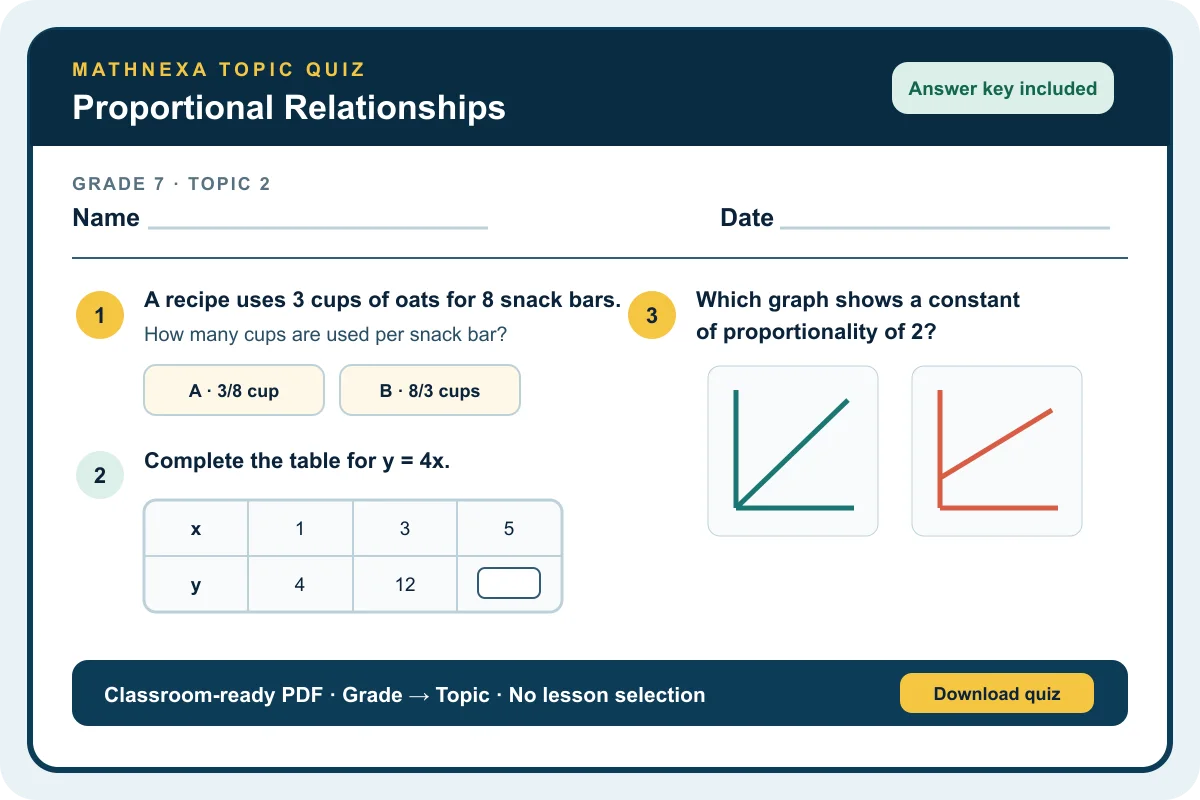
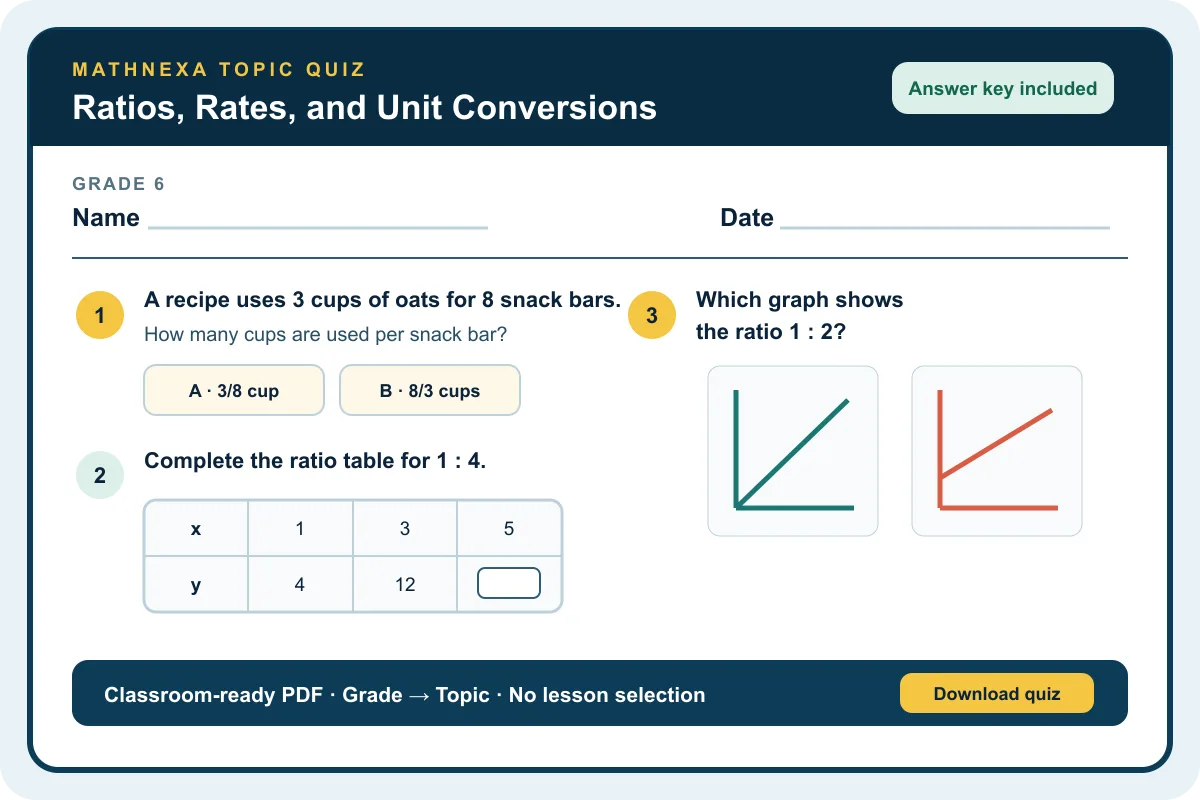
fix(home): draw the quiz preview as a real Grade 6 quiz
The homepage's quiz illustration said "Grade 7 · Topic 2 · Proportional
Relationships", but MathNexa publishes Grade 6 quizzes only. It now shows
the live Grade 6 topic "Ratios, Rates, and Unit Conversions", without a
topic number, and two Grade 6 ratio questions in place of the table for
y = 4x and the constant-of-proportionality graph. The layout, the drawn
table and graphs, and "Answer key included" (true of every live quiz)
are unchanged. The WebP and AVIF are re-rendered from the source SVG at
1200x800 (42 KB and 23 KB, about as before), and the alt text says
Grade 6.

diff --git a/e2e/phase9/teacher-first-access-flow.spec.ts b/e2e/phase9/teacher-first-access-flow.spec.ts
@@ -132,7 +132,7 @@ test("teacher-first homepage uses approved copy, SEO, modules, and public naviga
   await expect(page.getByRole("img", { name: /Math Vocabulary Hunt game artwork/i })).toBeVisible();
   await expect(page.getByRole("img", { name: /Online Math Prep workspace/i })).toBeVisible();
   await expect(page.getByRole("img", { name: /homework PDF with fruit diagrams/i })).toBeVisible();
-  await expect(page.getByRole("img", { name: /Grade 7 topic quiz/i })).toBeVisible();
+  await expect(page.getByRole("img", { name: /Grade 6 topic quiz/i })).toBeVisible();
   await expect(page.locator("a[data-product]")).toHaveCount(4);
   await expect(page.locator("a[data-product]").first()).toHaveAttribute("href", "/map-prep");
   await expect(page.getByRole("figure", { name: /^Example: a Grade 6 ratio problem/ })).toBeVisible();

diff --git a/apps/platform-web/components/public/teacher-first-home.tsx b/apps/platform-web/components/public/teacher-first-home.tsx
@@ -125,7 +125,7 @@ function ProductShelf() {
         <span className={styles.shelfImage}>
           <Image
             src="/media/home/quiz-preview.webp"
-            alt="MathNexa Grade 7 topic quiz PDF with a table and two graphs"
+            alt="MathNexa Grade 6 topic quiz PDF with a ratio table and two graphs"
             width={1200}
             height={800}
             sizes={SHELF_CARD_SIZES}
